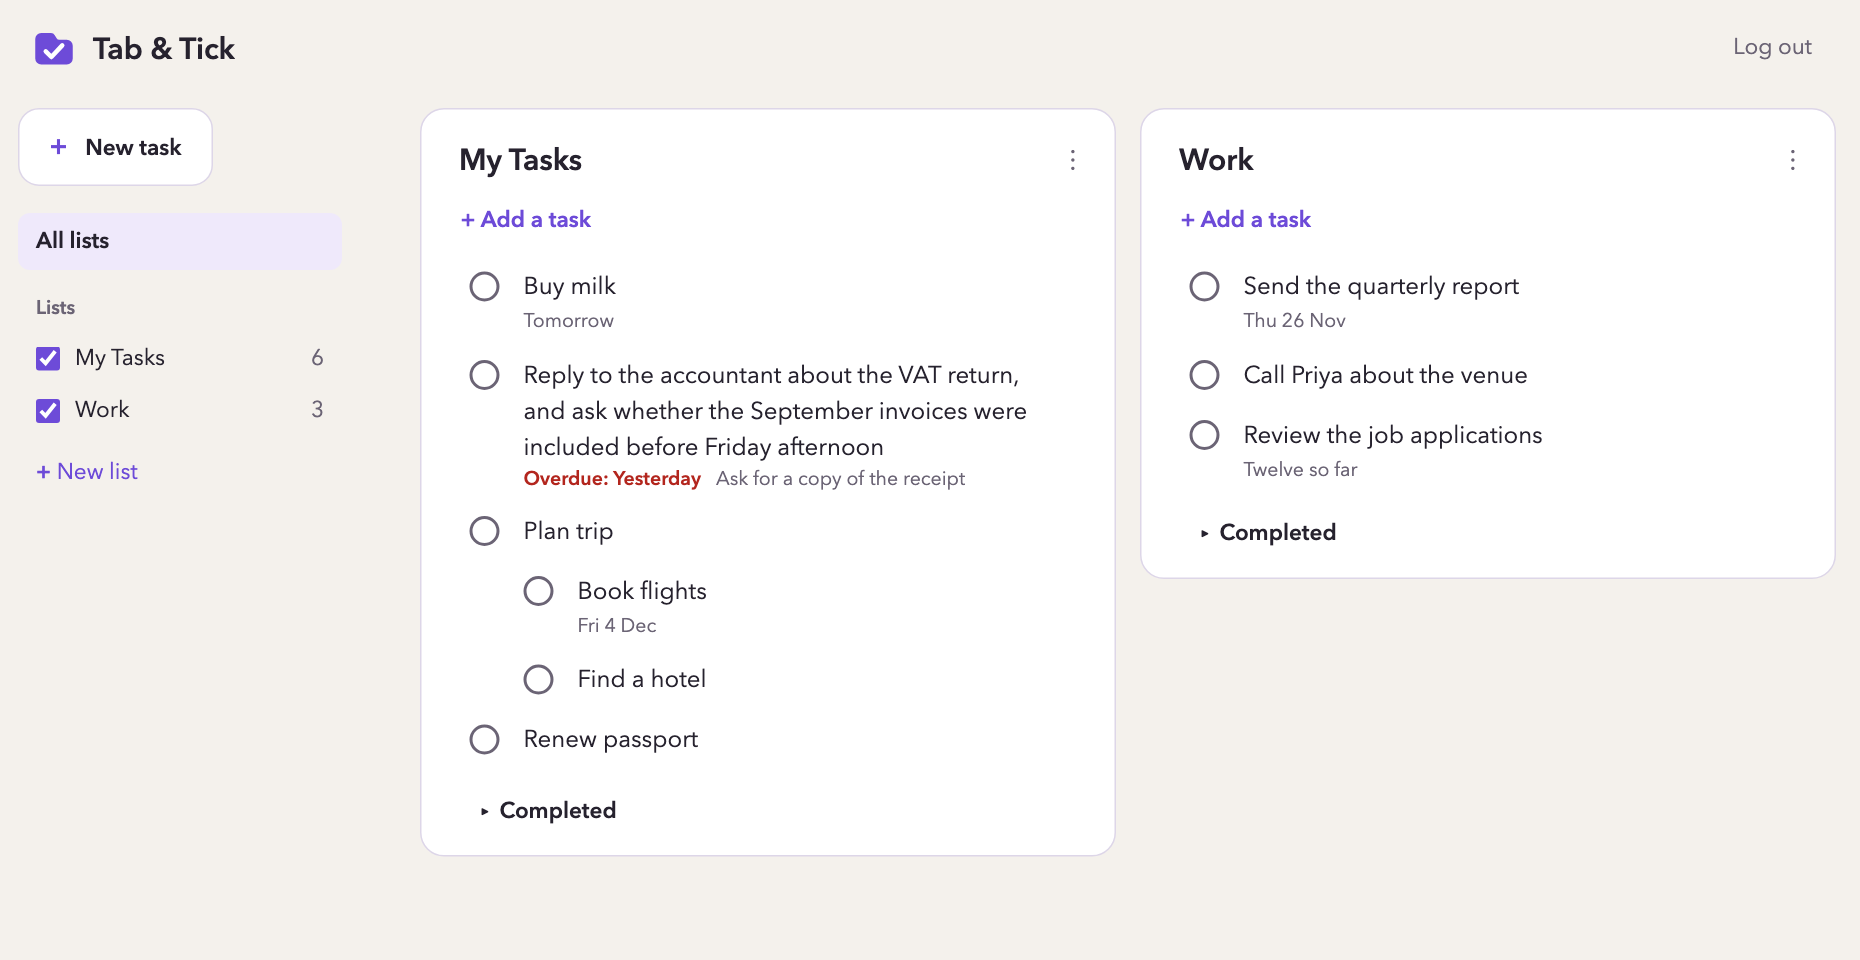
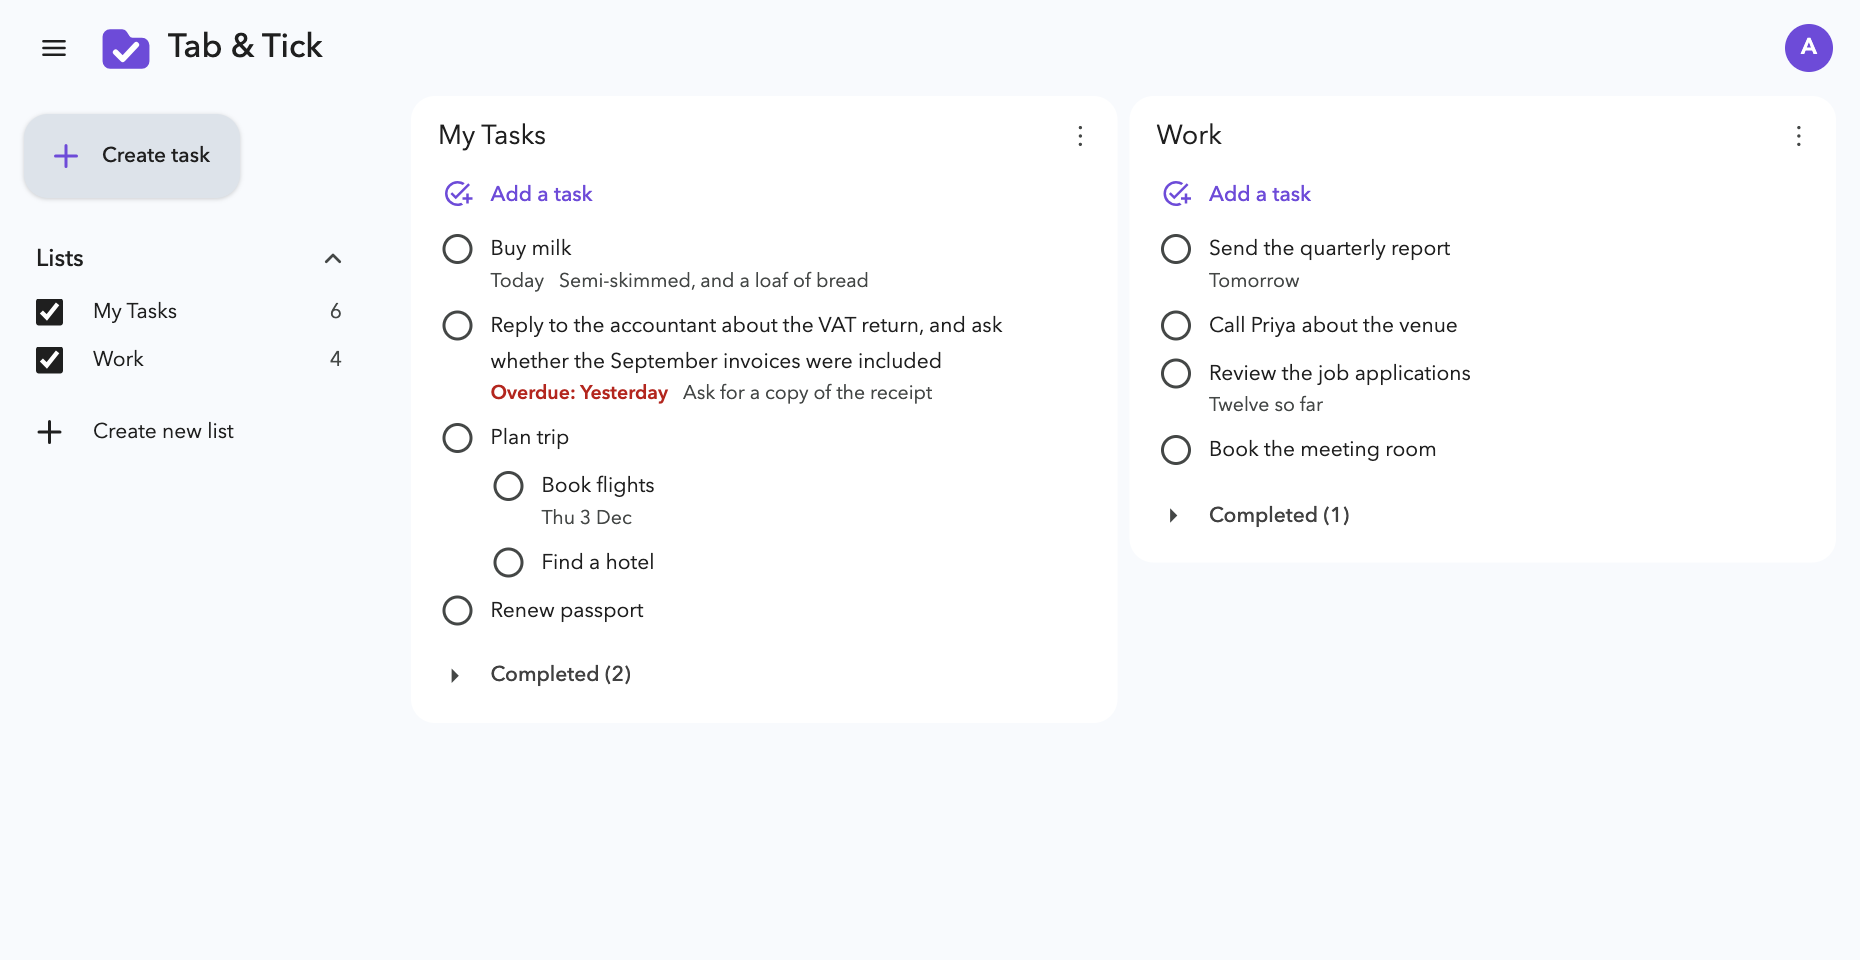
Show version 1.1.4's look, in the app's new colours

diff --git a/style.css b/style.css
@@ -1,8 +1,8 @@
 :root {
-  --page: #f4f1ec;
-  --text: #26222e;
-  --muted: #6b6475;
-  --line: #ddd6e8;
+  --page: #f8fafd;
+  --text: #1f1f1f;
+  --muted: #444746;
+  --line: #c4c7c5;
   --accent: #6d4bd8;
   --on-accent: #fff;
   color-scheme: light dark;
@@ -10,12 +10,12 @@
 
 @media (prefers-color-scheme: dark) {
   :root {
-    --page: #16131c;
-    --text: #eeeaf4;
-    --muted: #a79fb5;
-    --line: #3d364a;
-    --accent: #a48bf5;
-    --on-accent: #16131c;
+    --page: #1b1b1b;
+    --text: #e3e3e3;
+    --muted: #c4c7c5;
+    --line: #444746;
+    --accent: #bea8fa;
+    --on-accent: #131314;
   }
 }
 
